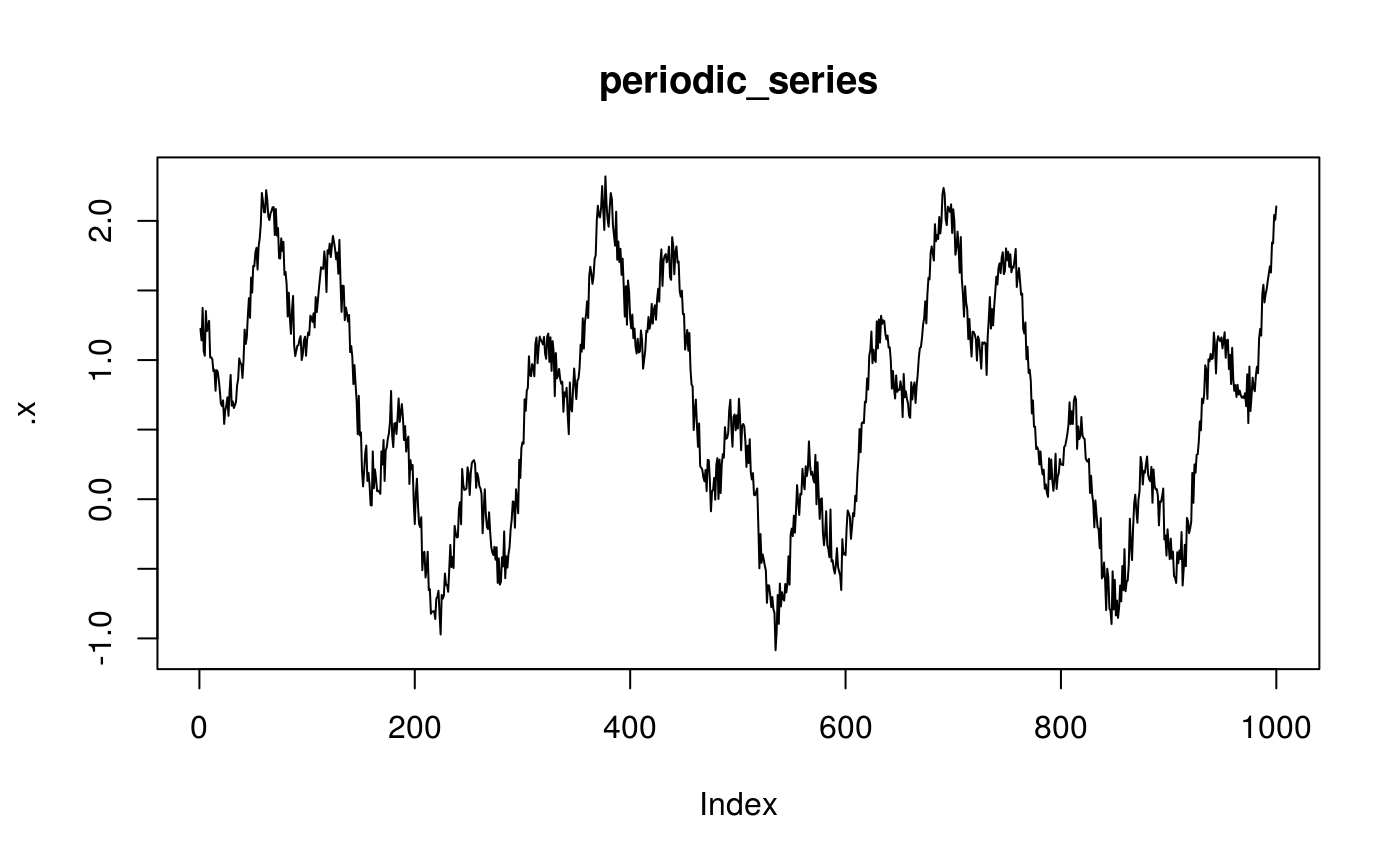
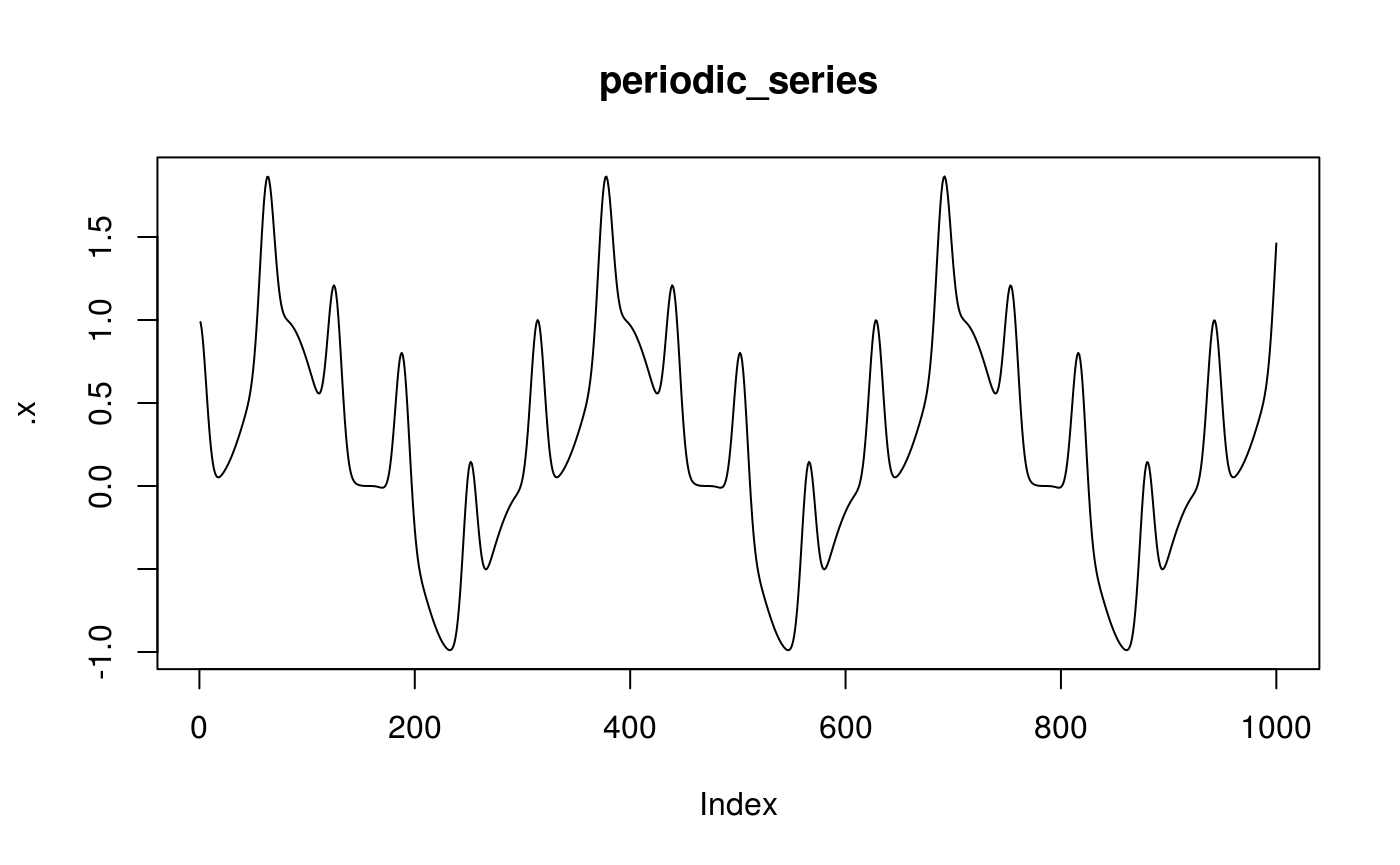
Built site for tsar: 0.0.1@9dadf85

diff --git a/index.html b/index.html
@@ -11,6 +11,7 @@
 <!-- clipboard.js --><script src="https://cdnjs.cloudflare.com/ajax/libs/clipboard.js/2.0.4/clipboard.min.js" integrity="sha256-FiZwavyI2V6+EXO1U+xzLG3IKldpiTFf3153ea9zikQ=" crossorigin="anonymous"></script><!-- sticky kit --><script src="https://cdnjs.cloudflare.com/ajax/libs/sticky-kit/1.1.3/sticky-kit.min.js" integrity="sha256-c4Rlo1ZozqTPE2RLuvbusY3+SU1pQaJC0TjuhygMipw=" crossorigin="anonymous"></script><!-- pkgdown --><link href="pkgdown.css" rel="stylesheet">
 <script src="pkgdown.js"></script><meta property="og:title" content="(Nonlinear) Time Series Analysis in R">
 <meta property="og:description" content="More about what it does (maybe more than one line)">
+<meta property="og:image" content="/logo.png">
 <meta name="twitter:card" content="summary">
 <!-- mathjax --><script src="https://cdnjs.cloudflare.com/ajax/libs/mathjax/2.7.5/MathJax.js" integrity="sha256-nvJJv9wWKEm88qvoQl9ekL2J+k/RWIsaSScxxlsrv8k=" crossorigin="anonymous"></script><script src="https://cdnjs.cloudflare.com/ajax/libs/mathjax/2.7.5/config/TeX-AMS-MML_HTMLorMML.js" integrity="sha256-84DKXVJXs0/F8OTMzX4UR909+jtl4G7SPypPavF+GfA=" crossorigin="anonymous"></script><!--[if lt IE 9]>
 <script src="https://oss.maxcdn.com/html5shiv/3.7.3/html5shiv.min.js"></script>
@@ -30,7 +31,7 @@
       </button>
       <span class="navbar-brand">
         <a class="navbar-link" href="index.html">tsar</a>
-        <span class="version label label-default" data-toggle="tooltip" data-placement="bottom" title="Released version">0.1.0</span>
+        <span class="version label label-default" data-toggle="tooltip" data-placement="bottom" title="Released version">0.0.1</span>
       </span>
     </div>
 
@@ -83,24 +84,39 @@
 <!-- README.md is generated from README.Rmd. Please edit that file -->
 <div id="tsar" class="section level1">
 <div class="page-header"><h1 class="hasAnchor">
-<a href="#tsar" class="anchor"></a>tsar</h1></div>
+<a href="#tsar" class="anchor"></a>tsar <img src="reference/figures/logo.png" align="right" alt="" width="360">
+</h1></div>
 <!-- badges: start -->
 
-<p>The goal of tsar is to …</p>
+<p>tsar ([Nonlinear] <strong>T</strong>ime <strong>S</strong>eries <strong>A</strong>nalysis with <strong>R</strong>) is package dedicated to provide tools derived from dynamical system theory for purpose of analysis nonlinear properties of time series. Developed version should contain things like:</p>
+<ul>
+<li>Estimation of embedding dimension and time lag</li>
+<li>Attractor reconstruction with machine learning</li>
+<li>Complex network approaches - visibility graph, transfer and recourrence networks</li>
+<li>Measures of fractal dimension, entropy production and irreversibility</li>
+</ul>
 <div id="installation" class="section level2">
 <h2 class="hasAnchor">
 <a href="#installation" class="anchor"></a>Installation</h2>
-<p>You can install the released version of tsar from <a href="https://CRAN.R-project.org">CRAN</a> with:</p>
-<div class="sourceCode" id="cb1"><pre class="sourceCode r"><code class="sourceCode r"><a class="sourceLine" id="cb1-1" data-line-number="1"><span class="kw"><a href="https://www.rdocumentation.org/packages/utils/topics/install.packages">install.packages</a></span>(<span class="st">"tsar"</span>)</a></code></pre></div>
+<div class="sourceCode" id="cb1"><pre class="sourceCode r"><code class="sourceCode r"><a class="sourceLine" id="cb1-1" data-line-number="1">devtools<span class="op">::</span><span class="kw">install_github</span>(<span class="st">"bklimowski/tsar"</span>)</a></code></pre></div>
 </div>
 <div id="example" class="section level2">
 <h2 class="hasAnchor">
 <a href="#example" class="anchor"></a>Example</h2>
-<p>This is a basic example which shows you how to solve a common problem:</p>
+<p>Creation of <a href="https://en.wikipedia.org/wiki/Recurrence_plot">recurrence matrix</a> from time series.</p>
 <div class="sourceCode" id="cb2"><pre class="sourceCode r"><code class="sourceCode r"><a class="sourceLine" id="cb2-1" data-line-number="1"><span class="kw"><a href="https://www.rdocumentation.org/packages/base/topics/library">library</a></span>(tsar)</a>
-<a class="sourceLine" id="cb2-2" data-line-number="2">## basic example code</a></code></pre></div>
-<div class="sourceCode" id="cb3"><pre class="sourceCode r"><code class="sourceCode r"><a class="sourceLine" id="cb3-1" data-line-number="1"><span class="kw"><a href="https://www.rdocumentation.org/packages/graphics/topics/plot">plot</a></span>(<span class="kw"><a href="https://www.rdocumentation.org/packages/stats/topics/Normal">rnorm</a></span>(<span class="dv">100</span>))</a></code></pre></div>
+<a class="sourceLine" id="cb2-2" data-line-number="2"><span class="kw"><a href="https://www.rdocumentation.org/packages/base/topics/Random">set.seed</a></span>(<span class="dv">448</span>)</a>
+<a class="sourceLine" id="cb2-3" data-line-number="3">n =<span class="st"> </span><span class="dv">500</span></a>
+<a class="sourceLine" id="cb2-4" data-line-number="4">periodic_series &lt;-<span class="st"> </span>(<span class="kw"><a href="https://www.rdocumentation.org/packages/base/topics/Trig">sin</a></span>(<span class="dv">1</span><span class="op">:</span>n<span class="op">/</span><span class="dv">16</span>) <span class="op">+</span><span class="st"> </span><span class="kw"><a href="https://www.rdocumentation.org/packages/base/topics/Trig">cos</a></span>(<span class="dv">1</span><span class="op">:</span>n<span class="op">/</span><span class="dv">10</span>)<span class="op">/</span><span class="dv">2</span> <span class="op">+</span><span class="st"> </span><span class="kw"><a href="https://www.rdocumentation.org/packages/base/topics/Trig">tan</a></span>(<span class="dv">1</span><span class="op">:</span>n<span class="op">/</span><span class="dv">20</span>)) </a>
+<a class="sourceLine" id="cb2-5" data-line-number="5"></a>
+<a class="sourceLine" id="cb2-6" data-line-number="6"><span class="kw"><a href="https://www.rdocumentation.org/packages/graphics/topics/plot">plot</a></span>(periodic_series, <span class="dt">type =</span> <span class="st">'l'</span>)</a></code></pre></div>
 <p><img src="reference/figures/README-unnamed-chunk-2-1.png" width="100%"></p>
+<div class="sourceCode" id="cb3"><pre class="sourceCode r"><code class="sourceCode r"><a class="sourceLine" id="cb3-1" data-line-number="1"></a>
+<a class="sourceLine" id="cb3-2" data-line-number="2"><span class="kw"><a href="reference/recurrence_matrix.html">recurrence_matrix</a></span>(periodic_series, <span class="fl">0.5</span>) <span class="op">%&gt;%</span><span class="st"> </span></a>
+<a class="sourceLine" id="cb3-3" data-line-number="3"><span class="st">  </span><span class="kw"><a href="https://www.rdocumentation.org/packages/graphics/topics/image">image</a></span>(<span class="dt">col=</span><span class="kw"><a href="https://www.rdocumentation.org/packages/grDevices/topics/gray.colors">gray.colors</a></span>(<span class="dv">2</span>, <span class="dt">start =</span> <span class="dv">1</span>, <span class="dt">end =</span> <span class="dv">0</span>),</a>
+<a class="sourceLine" id="cb3-4" data-line-number="4">        <span class="dt">xaxt=</span><span class="st">'n'</span>,</a>
+<a class="sourceLine" id="cb3-5" data-line-number="5">        <span class="dt">yaxt=</span><span class="st">'n'</span>)</a></code></pre></div>
+<p><img src="reference/figures/README-unnamed-chunk-2-2.png" width="100%"></p>
 </div>
 </div>
   </div>

diff --git a/articles/Analysis_with_complex_networks.html b/articles/Analysis_with_complex_networks.html
@@ -11,6 +11,7 @@
 <!-- clipboard.js --><script src="https://cdnjs.cloudflare.com/ajax/libs/clipboard.js/2.0.4/clipboard.min.js" integrity="sha256-FiZwavyI2V6+EXO1U+xzLG3IKldpiTFf3153ea9zikQ=" crossorigin="anonymous"></script><!-- sticky kit --><script src="https://cdnjs.cloudflare.com/ajax/libs/sticky-kit/1.1.3/sticky-kit.min.js" integrity="sha256-c4Rlo1ZozqTPE2RLuvbusY3+SU1pQaJC0TjuhygMipw=" crossorigin="anonymous"></script><!-- pkgdown --><link href="../pkgdown.css" rel="stylesheet">
 <script src="../pkgdown.js"></script><meta property="og:title" content="Analysis with complex networks">
 <meta property="og:description" content="">
+<meta property="og:image" content="/logo.png">
 <meta name="twitter:card" content="summary">
 <!-- mathjax --><script src="https://cdnjs.cloudflare.com/ajax/libs/mathjax/2.7.5/MathJax.js" integrity="sha256-nvJJv9wWKEm88qvoQl9ekL2J+k/RWIsaSScxxlsrv8k=" crossorigin="anonymous"></script><script src="https://cdnjs.cloudflare.com/ajax/libs/mathjax/2.7.5/config/TeX-AMS-MML_HTMLorMML.js" integrity="sha256-84DKXVJXs0/F8OTMzX4UR909+jtl4G7SPypPavF+GfA=" crossorigin="anonymous"></script><!--[if lt IE 9]>
 <script src="https://oss.maxcdn.com/html5shiv/3.7.3/html5shiv.min.js"></script>
@@ -30,7 +31,7 @@
       </button>
       <span class="navbar-brand">
         <a class="navbar-link" href="../index.html">tsar</a>
-        <span class="version label label-default" data-toggle="tooltip" data-placement="bottom" title="Released version">0.1.0</span>
+        <span class="version label label-default" data-toggle="tooltip" data-placement="bottom" title="Released version">0.0.1</span>
       </span>
     </div>
 
@@ -101,13 +102,12 @@
 <a class="sourceLine" id="cb1-12" data-line-number="12"><span class="kw"><a href="https://www.rdocumentation.org/packages/base/topics/Random">set.seed</a></span>(<span class="dv">8314</span>)</a></code></pre></div>
 <div class="sourceCode" id="cb2"><pre class="sourceCode r"><code class="sourceCode r"><a class="sourceLine" id="cb2-1" data-line-number="1">norm_walk &lt;-<span class="st"> </span><span class="kw"><a href="https://www.rdocumentation.org/packages/base/topics/cumsum">cumsum</a></span>(<span class="kw"><a href="https://www.rdocumentation.org/packages/stats/topics/Normal">rnorm</a></span>(<span class="dv">1000</span>))</a>
 <a class="sourceLine" id="cb2-2" data-line-number="2">cauchy_walk &lt;-<span class="st"> </span><span class="kw"><a href="https://www.rdocumentation.org/packages/base/topics/cumsum">cumsum</a></span>(<span class="kw"><a href="https://www.rdocumentation.org/packages/stats/topics/Cauchy">rcauchy</a></span>(<span class="dv">1000</span>, <span class="dt">location =</span> <span class="dv">0</span>, <span class="dt">scale =</span> <span class="fl">0.1</span>))</a>
-<a class="sourceLine" id="cb2-3" data-line-number="3">periodic_series &lt;-<span class="st"> </span><span class="kw"><a href="https://www.rdocumentation.org/packages/base/topics/Trig">sin</a></span>(<span class="dv">1</span><span class="op">:</span><span class="dv">1000</span><span class="op">/</span><span class="dv">50</span>) <span class="op">+</span></a>
-<a class="sourceLine" id="cb2-4" data-line-number="4"><span class="st">  </span><span class="kw"><a href="https://www.rdocumentation.org/packages/base/topics/Trig">cos</a></span>(<span class="dv">1</span><span class="op">:</span><span class="dv">1000</span><span class="op">/</span><span class="dv">20</span>)<span class="op">^</span><span class="dv">2</span> <span class="op">+</span></a>
-<a class="sourceLine" id="cb2-5" data-line-number="5"><span class="st">  </span><span class="kw"><a href="https://www.rdocumentation.org/packages/stats/topics/Normal">rnorm</a></span>(<span class="dv">1000</span>, <span class="dt">mean =</span> <span class="fl">0.15</span>, <span class="dt">sd =</span> <span class="fl">0.1</span>)</a>
-<a class="sourceLine" id="cb2-6" data-line-number="6"></a>
-<a class="sourceLine" id="cb2-7" data-line-number="7">time_series &lt;-<span class="st"> </span><span class="kw"><a href="https://www.rdocumentation.org/packages/base/topics/list">list</a></span>(norm_walk, cauchy_walk, periodic_series)</a>
-<a class="sourceLine" id="cb2-8" data-line-number="8">time_series_names &lt;-<span class="st"> </span><span class="kw"><a href="https://www.rdocumentation.org/packages/base/topics/list">list</a></span>(<span class="st">"norm_walk"</span>, <span class="st">"cauchy_walk"</span>, <span class="st">"periodic_series"</span>)</a>
-<a class="sourceLine" id="cb2-9" data-line-number="9">time_series <span class="op">%&gt;%</span><span class="st"> </span><span class="kw"><a href="https://purrr.tidyverse.org/reference/map2.html">map2</a></span>(time_series_names, <span class="op">~</span><span class="kw"><a href="https://www.rdocumentation.org/packages/graphics/topics/plot">plot</a></span>(.x, <span class="dt">type =</span> <span class="st">'l'</span>, <span class="dt">main =</span> .y))</a></code></pre></div>
+<a class="sourceLine" id="cb2-3" data-line-number="3">periodic_series &lt;-<span class="st"> </span><span class="kw"><a href="https://www.rdocumentation.org/packages/base/topics/Trig">sin</a></span>(<span class="dv">1</span><span class="op">:</span><span class="dv">1000</span><span class="op">/</span><span class="dv">50</span>)<span class="op">^</span><span class="dv">3</span> <span class="op">+</span></a>
+<a class="sourceLine" id="cb2-4" data-line-number="4"><span class="st">  </span><span class="kw"><a href="https://www.rdocumentation.org/packages/base/topics/Trig">cos</a></span>(<span class="dv">1</span><span class="op">:</span><span class="dv">1000</span><span class="op">/</span><span class="dv">20</span>)<span class="op">^</span><span class="dv">10</span></a>
+<a class="sourceLine" id="cb2-5" data-line-number="5"></a>
+<a class="sourceLine" id="cb2-6" data-line-number="6">time_series &lt;-<span class="st"> </span><span class="kw"><a href="https://www.rdocumentation.org/packages/base/topics/list">list</a></span>(norm_walk, cauchy_walk, periodic_series)</a>
+<a class="sourceLine" id="cb2-7" data-line-number="7">time_series_names &lt;-<span class="st"> </span><span class="kw"><a href="https://www.rdocumentation.org/packages/base/topics/list">list</a></span>(<span class="st">"norm_walk"</span>, <span class="st">"cauchy_walk"</span>, <span class="st">"periodic_series"</span>)</a>
+<a class="sourceLine" id="cb2-8" data-line-number="8">time_series <span class="op">%&gt;%</span><span class="st"> </span><span class="kw"><a href="https://purrr.tidyverse.org/reference/map2.html">map2</a></span>(time_series_names, <span class="op">~</span><span class="kw"><a href="https://www.rdocumentation.org/packages/graphics/topics/plot">plot</a></span>(.x, <span class="dt">type =</span> <span class="st">'l'</span>, <span class="dt">main =</span> .y))</a></code></pre></div>
 <p><img src="Analysis_with_complex_networks_files/figure-html/unnamed-chunk-2-1.png" width="700"><img src="Analysis_with_complex_networks_files/figure-html/unnamed-chunk-2-2.png" width="700"><img src="Analysis_with_complex_networks_files/figure-html/unnamed-chunk-2-3.png" width="700"></p>
 <pre><code>#&gt; [[1]]
 #&gt; NULL

diff --git a/reference/pipe.html b/reference/pipe.html
@@ -33,6 +33,8 @@
 <meta property="og:title" content="Pipe operator — %&gt;%" />
 
 <meta property="og:description" content="See magrittr::%&amp;gt;% for details." />
+
+<meta property="og:image" content="/logo.png" />
 <meta name="twitter:card" content="summary" />
 
 
@@ -63,7 +65,7 @@
       </button>
       <span class="navbar-brand">
         <a class="navbar-link" href="../index.html">tsar</a>
-        <span class="version label label-default" data-toggle="tooltip" data-placement="bottom" title="Released version">0.1.0</span>
+        <span class="version label label-default" data-toggle="tooltip" data-placement="bottom" title="Released version">0.0.1</span>
       </span>
     </div>
 

diff --git a/reference/recurrence_network.html b/reference/recurrence_network.html
@@ -33,6 +33,8 @@
 <meta property="og:title" content="recurrence_network — recurrence_network" />
 
 <meta property="og:description" content="recurrence_network" />
+
+<meta property="og:image" content="/logo.png" />
 <meta name="twitter:card" content="summary" />
 
 
@@ -63,7 +65,7 @@
       </button>
       <span class="navbar-brand">
         <a class="navbar-link" href="../index.html">tsar</a>
-        <span class="version label label-default" data-toggle="tooltip" data-placement="bottom" title="Released version">0.1.0</span>
+        <span class="version label label-default" data-toggle="tooltip" data-placement="bottom" title="Released version">0.0.1</span>
       </span>
     </div>
 

diff --git a/reference/transition_network.html b/reference/transition_network.html
@@ -33,6 +33,8 @@
 <meta property="og:title" content="transition_network — transition_network" />
 
 <meta property="og:description" content="transition_network" />
+
+<meta property="og:image" content="/logo.png" />
 <meta name="twitter:card" content="summary" />
 
 
@@ -63,7 +65,7 @@
       </button>
       <span class="navbar-brand">
         <a class="navbar-link" href="../index.html">tsar</a>
-        <span class="version label label-default" data-toggle="tooltip" data-placement="bottom" title="Released version">0.1.0</span>
+        <span class="version label label-default" data-toggle="tooltip" data-placement="bottom" title="Released version">0.0.1</span>
       </span>
     </div>
 

diff --git a/reference/recurrence_matrix.html b/reference/recurrence_matrix.html
@@ -33,6 +33,8 @@
 <meta property="og:title" content="recurrence_matrix — recurrence_matrix" />
 
 <meta property="og:description" content="recurrence_matrix" />
+
+<meta property="og:image" content="/logo.png" />
 <meta name="twitter:card" content="summary" />
 
 
@@ -63,7 +65,7 @@
       </button>
       <span class="navbar-brand">
         <a class="navbar-link" href="../index.html">tsar</a>
-        <span class="version label label-default" data-toggle="tooltip" data-placement="bottom" title="Released version">0.1.0</span>
+        <span class="version label label-default" data-toggle="tooltip" data-placement="bottom" title="Released version">0.0.1</span>
       </span>
     </div>
 

diff --git a/reference/visibility_graph.html b/reference/visibility_graph.html
@@ -33,6 +33,8 @@
 <meta property="og:title" content="visibility_graph — visibility_graph" />
 
 <meta property="og:description" content="visibility_graph" />
+
+<meta property="og:image" content="/logo.png" />
 <meta name="twitter:card" content="summary" />
 
 
@@ -63,7 +65,7 @@
       </button>
       <span class="navbar-brand">
         <a class="navbar-link" href="../index.html">tsar</a>
-        <span class="version label label-default" data-toggle="tooltip" data-placement="bottom" title="Released version">0.1.0</span>
+        <span class="version label label-default" data-toggle="tooltip" data-placement="bottom" title="Released version">0.0.1</span>
       </span>
     </div>
 

diff --git a/reference/index.html b/reference/index.html
@@ -32,6 +32,9 @@
 
 <meta property="og:title" content="Function reference" />
 
+<meta property="og:image" content="/logo.png" />
+<meta name="twitter:card" content="summary" />
+
 
 
 <!-- mathjax -->
@@ -60,7 +63,7 @@
       </button>
       <span class="navbar-brand">
         <a class="navbar-link" href="../index.html">tsar</a>
-        <span class="version label label-default" data-toggle="tooltip" data-placement="bottom" title="Released version">0.1.0</span>
+        <span class="version label label-default" data-toggle="tooltip" data-placement="bottom" title="Released version">0.0.1</span>
       </span>
     </div>
 

diff --git a/LICENSE.html b/LICENSE.html
@@ -32,6 +32,9 @@
 
 <meta property="og:title" content="MIT License" />
 
+<meta property="og:image" content="/logo.png" />
+<meta name="twitter:card" content="summary" />
+
 
 
 <!-- mathjax -->
@@ -60,7 +63,7 @@
       </button>
       <span class="navbar-brand">
         <a class="navbar-link" href="index.html">tsar</a>
-        <span class="version label label-default" data-toggle="tooltip" data-placement="bottom" title="Released version">0.1.0</span>
+        <span class="version label label-default" data-toggle="tooltip" data-placement="bottom" title="Released version">0.0.1</span>
       </span>
     </div>
 

diff --git a/articles/index.html b/articles/index.html
@@ -32,6 +32,9 @@
 
 <meta property="og:title" content="Articles" />
 
+<meta property="og:image" content="/logo.png" />
+<meta name="twitter:card" content="summary" />
+
 
 
 <!-- mathjax -->
@@ -60,7 +63,7 @@
       </button>
       <span class="navbar-brand">
         <a class="navbar-link" href="../index.html">tsar</a>
-        <span class="version label label-default" data-toggle="tooltip" data-placement="bottom" title="Released version">0.1.0</span>
+        <span class="version label label-default" data-toggle="tooltip" data-placement="bottom" title="Released version">0.0.1</span>
       </span>
     </div>
 

diff --git a/authors.html b/authors.html
@@ -32,6 +32,9 @@
 
 <meta property="og:title" content="Authors" />
 
+<meta property="og:image" content="/logo.png" />
+<meta name="twitter:card" content="summary" />
+
 
 
 <!-- mathjax -->
@@ -60,7 +63,7 @@
       </button>
       <span class="navbar-brand">
         <a class="navbar-link" href="index.html">tsar</a>
-        <span class="version label label-default" data-toggle="tooltip" data-placement="bottom" title="Released version">0.1.0</span>
+        <span class="version label label-default" data-toggle="tooltip" data-placement="bottom" title="Released version">0.0.1</span>
       </span>
     </div>
 
